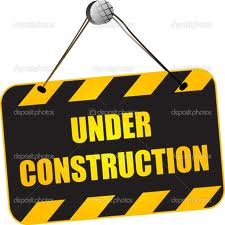
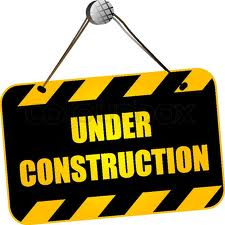
changed home screen image

diff --git a/index.html b/index.html
@@ -31,7 +31,7 @@
 	</p>
 	<p>Proceed to <a href="#S1">Step 1</a> to get started. </p>   
 </div> 
-<img class ="fright homeimage" src="img/compiler.gif"> 
+<img class ="fright homeimage" src="img/uc.jpg"> 
   <!-- <div id="slides" class="slider column2">
       <div class="slides_container">
         <div class="slide">

diff --git a/css/style.css b/css/style.css
@@ -186,8 +186,8 @@ h6 { font-size: 12px; margin-bottom: 2px; }
 body { width: 100%; min-width: 988px; overflow: hidden; }
 .homeimage
 {
-	width: 45%;
-	height: 50%;
+	width: 35%;
+	height: 40%;
 }	
 .center 
 { 
